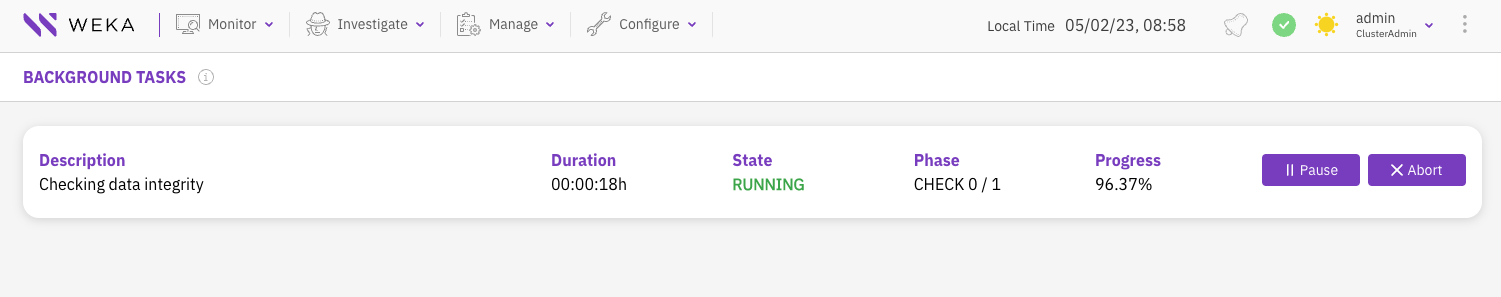
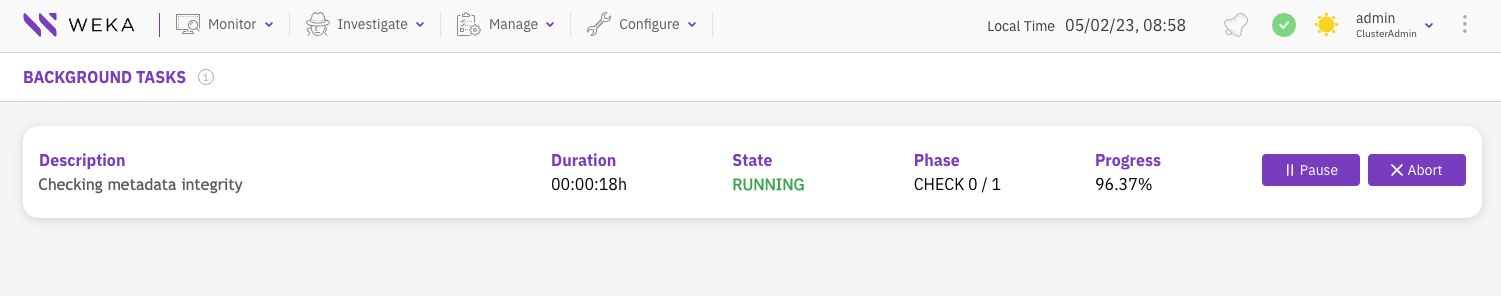
GITBOOK-53: FSCK background task: replace data with metadata

diff --git a/usage/background-tasks/README.md b/usage/background-tasks/README.md
@@ -8,7 +8,7 @@ description: >-
 
 The WEKA system performs internal and external asynchronous operations and maintenance tasks in the background using minimal CPU resources, allowing no interference nor starving the WEKA system from serving high-performing IOs.
 
-Background tasks include, for example, checking data integrity, downloading and uploading snapshots, and detaching an object store.
+Background tasks include, for example, checking metadata integrity, downloading and uploading snapshots, and detaching an object store.
 
 Adhere to the following considerations:
 
@@ -34,10 +34,9 @@ Adhere to the following considerations:
 | STOW\_UPLOAD               | Uploading snapshot \<snapshot name> from filesystem \<fs name> to \<OBS site> object-store bucket \<OBS bucket name>    | Pause, Resume, Abort |
 | STOW\_DOWNLOAD\_FILESYSTEM | Downloading filesystem \<fs name> from locator \<snapshot locator> in object-store \<OBS bucket name>                   | Pause, Resume        |
 | STOW\_DOWNLOAD\_SNAPSHOT   | Downloading snapshot \<snapshot name> to \<fs name> from locator \<snapshot locator> in object-store \<OBS bucket name> | Pause, Resume        |
-| FSCK                       | Checking data integrity                                                                                                 | Pause, Resume, Abort |
+| FSCK                       | Checking metadata integrity                                                                                             | Pause, Resume, Abort |
 | FILESYSTEM\_SQUASH         | Squashing filesystem \<fs name>                                                                                         | Pause, Resume        |
 | SNAPSHOT\_PREFETCH         | Fetching metadata of snapshot \<snapshot name> of filesystem \<fs name> from object-store \<OBS bucket name>            | Pause, Resume, Abort |
 | DATA\_REDUCTION            | Compressing data                                                                                                        | Pause, Resume, Abort |
 | DATA\_REDUCTION\_GC        | Garbage collection (GC)                                                                                                 | Pause, Resume, Abort |
-| FILESYSTEM\_RECOMPRESS     | Recompressing filesystem data                                                                                           | Pause, Resume, Abort |
 

diff --git a/usage/background-tasks/manage-background-tasks-using-the-gui.md b/usage/background-tasks/manage-background-tasks-using-the-gui.md
@@ -4,7 +4,7 @@ The GUI provides a background tasks page displaying the active background tasks 
 
 If other background tasks or activities are of higher priority, you can pause and resume the background task later.
 
-The abort action is applicable for some of the tasks, such as checking data integrity. For other tasks, such as downloading a filesystem or a snapshot, squashing a filesystem, and detaching object storage from a filesystem, the abort action is not applicable. To abort such a task, delete its entity.
+The abort action is applicable for some of the tasks, such as checking metadata integrity. For other tasks, such as downloading a filesystem or a snapshot, squashing a filesystem, and detaching object storage from a filesystem, the abort action is not applicable. To abort such a task, delete its entity.
 
 <figure><img src="../../.gitbook/assets/wmng_bkg_tasks.png" alt=""><figcaption><p>Background Tasks</p></figcaption></figure>
 
